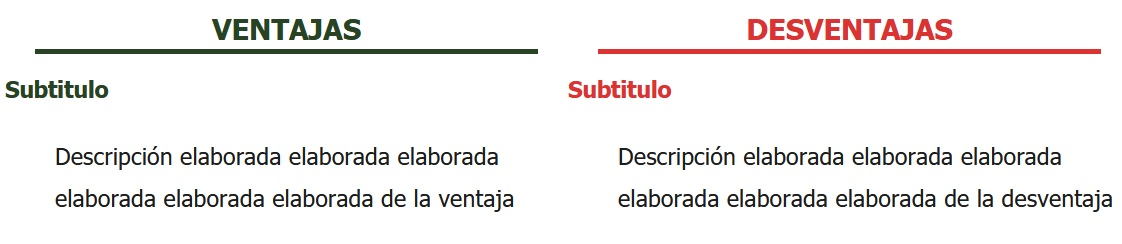
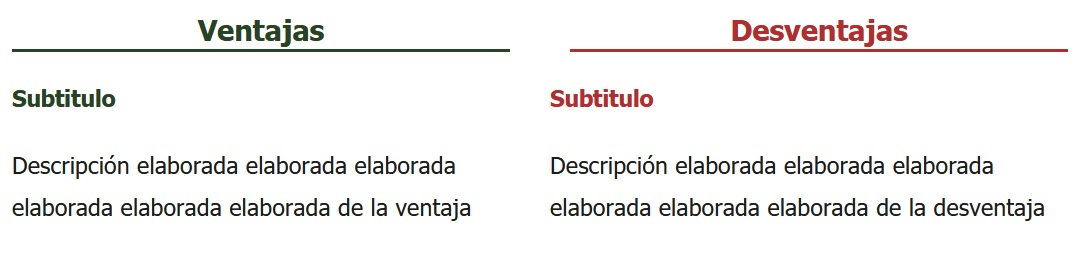
Added button styling option for certain templates

diff --git a/src/components/Palette.js b/src/components/Palette.js
@@ -1,44 +1,7 @@
 import React from "react";
 import styled from "@emotion/styled"
 
-function Palette({ styling, changeStyling }) {
-
-    console.log(styling["letter-spacing"]);
-    function handleBgColor(event) {
-        changeStyling({
-            ...styling,
-            background: event.target.value
-        })
-    }
-
-    function handleColor(event) {
-        changeStyling({
-            ...styling,
-            color: event.target.value
-        })
-    }
-
-    function handleLetterSpacing(event) {
-        changeStyling({
-            ...styling,
-            "letter-spacing": event.target.value + "px"
-        })
-    }
-
-    function handleWordSpacing(event) {
-        changeStyling({
-            ...styling,
-            "word-spacing": event.target.value + "px"
-        })
-    }
-
-    function handleBorderRadius(event) {
-        console.log(event.target.value);
-        changeStyling({
-            ...styling,
-            "border-radius": event.target.value
-        })
-    }
+function Palette({ template, styling, changeStyling, changeButton, stylingButton }) {
 
     return (
         <Form>
@@ -81,10 +44,94 @@ function Palette({ styling, changeStyling }) {
                 </InputSection>
 
             </PaletteSection>
+            {template === 1 && 3 &&
+                <PaletteSection>
+                    <SectionTitle>BOTÓN</SectionTitle>
+
+                    <InputSection>
+                        <label>Color del botón</label>
+                        <InputColor type="color" value={stylingButton.background} onChange={handleBgButtonColor} />
+                    </InputSection>
+
+                    <InputSection>
+                        <label>Color de la letra</label>
+                        <InputColor type="color" value={stylingButton.color} onChange={handleButtonColor} />
+                    </InputSection>
+
+                    <label>Bordes redondeados
+                        <OptionsWrapper>
+                            <label>Si<InputOption type="radio" onChange={handleBorderButton} value="30px" name="border-radius" /></label>
+                            <label>No<InputOption type="radio" onChange={handleBorderButton} value="0px" name="border-radius" /></label>
+                        </OptionsWrapper>
+                    </label>
+
+                </PaletteSection>
+            }
 
         </Form>
     )
+
+    /* TEMPLATE FUNCTIONS */
+    function handleBgColor(event) {
+        changeStyling({
+            ...styling,
+            background: event.target.value
+        })
+    }
+
+    function handleColor(event) {
+        changeStyling({
+            ...styling,
+            color: event.target.value
+        })
+    }
+
+    function handleLetterSpacing(event) {
+        changeStyling({
+            ...styling,
+            "letter-spacing": event.target.value + "px"
+        })
+    }
+
+    function handleWordSpacing(event) {
+        changeStyling({
+            ...styling,
+            "word-spacing": event.target.value + "px"
+        })
+    }
+
+    function handleBorderRadius(event) {
+        changeStyling({
+            ...styling,
+            "border-radius": event.target.value
+        })
+    }
+
+    /* BUTTON FUNCTIONS */
+    function handleBgButtonColor(event) {
+        changeButton({
+            ...stylingButton,
+            background: event.target.value
+        })
+    }
+
+    function handleButtonColor(event) {
+        changeButton({
+            ...stylingButton,
+            color: event.target.value
+        })
+    }
+
+    function handleBorderButton(event) {
+        changeButton({
+            ...stylingButton,
+            "border-radius": event.target.value
+        })
+    }
+
+
 }
+
 
 export default Palette
 

diff --git a/src/resources/BoxTemplates.js b/src/resources/BoxTemplates.js
@@ -62,7 +62,7 @@ const BoxTemplates = [
             TemplateHtml: `<!-- wp:columns {"className":"template4"} -->
             <div class="wp-block-columns template4"><!-- wp:column -->
             <div class="wp-block-column"><!-- wp:heading {"align":"center","level":4} -->
-            <h4 class="has-text-align-center">VENTAJAS</h4>
+            <h4 class="has-text-align-center">Ventajas</h4>
             <!-- /wp:heading -->
             
             <!-- wp:heading {"level":5} -->
@@ -84,7 +84,7 @@ const BoxTemplates = [
             
             <!-- wp:column -->
             <div class="wp-block-column"><!-- wp:heading {"align":"center","level":4} -->
-            <h4 class="has-text-align-center">DESVENTAJAS</h4>
+            <h4 class="has-text-align-center">Desventajas</h4>
             <!-- /wp:heading -->
             
             <!-- wp:heading {"level":5} -->
@@ -105,7 +105,7 @@ const BoxTemplates = [
             <!-- /wp:column --></div>
             <!-- /wp:columns -->
             `,
-            TemplateCss: ".template4{width:100%;display:flex;flex-wrap:nowrap;padding:3px 12px}.template4>div{flex-grow:1;flex-basis:0;word-break:break-word;overflow-wrap:break-word;margin:0 16px}.template4 h4{font-size:23px;text-align:center}.template4>div:first-child h4{color:#274323;border-bottom:4px solid #274323;margin:16px 16px 16px 0}.template4>div:nth-child(2) h4{color:#db3232;border-bottom:4px solid #db3232;margin:16px 0 16px 16px}.template4>div:first-child h5{color:#274323;margin:0}.template4>div:nth-child(2) h5{color:#db3232}.template4 ul li{margin:24px 0}.template4 ul{list-style:none}",
+            TemplateCss: ".template4{width:100%;display:flex;flex-wrap:wrap;padding:3px 12px}.template4>div{flex-grow:1;flex-basis:0;word-break:break-word;overflow-wrap:break-word;margin:0 16px}.template4 h4{font-size:23px;text-align:center}.template4>div:first-child h4{color:#274323;border-bottom:3px solid #274323;border-collapse:separate;border-spacing:50px;margin:16px 16px 24px 0}.template4>div:nth-child(2) h4{color:#b02e2e;border-bottom:3px solid #b02e2e;margin:16px 0 24px 16px}.template4>div:first-child h5{color:#274323;margin:0}.template4>div:nth-child(2) h5{color:#b02e2e}.template4 ul li{margin:24px 0}.template4 ul{list-style:none;padding-left:0}",
             TemplateImg: "../images/box-template4.jpg",
         }
     ]

diff --git a/src/components/PersonalizeTemplate.js b/src/components/PersonalizeTemplate.js
@@ -17,9 +17,22 @@ function PersonalizeTemplate(props) {
         "border-radius": "0px"
     });
 
+    const [stylingButton, changeButton] = useState({
+        background: "#272c30",
+        color: "#ffffff",
+        "border-radius": "0px"
+    })
+
 
     useEffect(() => {
-        document.querySelector(`.template${template.TemplateId}`).setAttribute("style", applyStyles())
+        let btn = document.querySelector(`.template${template.TemplateId} .wp-block-button a`);
+        if(btn!=null) {
+            btn.setAttribute("style", applyStyles(stylingButton))
+        }
+    }, [stylingButton])
+
+    useEffect(() => {
+        document.querySelector(`.template${template.TemplateId}`).setAttribute("style", applyStyles(styling))
     }, [styling])
 
     if (!props.location.optionChosed) {
@@ -35,7 +48,13 @@ function PersonalizeTemplate(props) {
 
                 <Workspace>
                     <div className={template.TemplateId} dangerouslySetInnerHTML={{ __html: template.TemplateHtml }}></div>
-                    <Palette styling={styling} changeStyling={changeStyling}/>
+                    <Palette 
+                        template={template.TemplateId}
+                        styling={styling} 
+                        changeStyling={changeStyling} 
+                        stylingButton={stylingButton}
+                        changeButton={changeButton} 
+                    />
                     <Button>CREAR BLOQUE</Button>
                 </Workspace>
                 <CodeSpace>
@@ -46,10 +65,10 @@ function PersonalizeTemplate(props) {
         )
     }
 
-    function applyStyles() {
+    function applyStyles(style) {
         let concatTxt = "";
-        for(let key in styling) {
-            concatTxt += `${key}:${styling[key]};`
+        for(let key in style) {
+            concatTxt += `${key}:${style[key]};`
         }
         console.log(concatTxt);
         concatOutputCss(concatTxt)

diff --git a/src/resources/TemplatesStyles.css b/src/resources/TemplatesStyles.css
@@ -41,7 +41,6 @@
 .template1 .wp-block-column .wp-block-buttons .wp-block-button a {
 	padding: 10px 20px;
 	border: 2px solid black;
-	background-color: #365E31;
 	color: white;
 	font-size: 20px;
 	transition: 1s;
@@ -49,9 +48,9 @@
 
 .template1 .wp-block-column .wp-block-buttons .wp-block-button a:hover {
 	border: 2px solid black;
-	background-color: #172815 !important;
 	color: white;
 	transform: scale(1.15);
+	cursor: pointer;
 }
 
 .template1 .wp-block-column ul li {
@@ -119,14 +118,13 @@
 
 
 
-
 /* TEMPLATE 4 */
 
 .template4 {
 	width: 100%;
 	display: flex;
-	flex-wrap: nowrap;
-	padding: 3px 12px;
+	flex-wrap: wrap;
+	padding: 3px 12px;	
 	box-shadow: 0px 3px 3px #611905;
 }
 
@@ -141,20 +139,21 @@
 .template4 h4{
 	font-size: 23px;
 	text-align: center;
-	margin-bottom: 25px;
 }
 
 .template4 > div:first-child h4 {
 	color: #274323;
-	border-bottom: 4px solid #274323;
-	margin: 16px 16px 16px 0px;
+	border-bottom: 3px solid #274323;
+	border-collapse: separate;
+	border-spacing: 50px;
+	margin: 16px 16px 24px 0px;
 }
 
 
 .template4 > div:nth-child(2) h4 {
-	color: #db3232;
-	border-bottom: 4px solid #db3232;
-	margin: 16px 0px 16px 16px;
+	color: #b02e2e;
+	border-bottom: 3px solid #b02e2e;
+	margin: 16px 0px 24px 16px;
 }
 
 .template4 > div:first-child h5 {
@@ -163,7 +162,7 @@
 }
 
 .template4 > div:nth-child(2) h5 {
-	color: #db3232;;
+	color: #b02e2e;
 }
 
 .template4 ul li {
@@ -172,6 +171,7 @@
 
 .template4 ul {
 	list-style: none;
+	padding-left: 0px;
 }
 
 /* TEMPLATE 10 */

diff --git a/src/components/TemplateList.js b/src/components/TemplateList.js
@@ -22,7 +22,6 @@ function TemplateList(props) {
                 <TemplateListWrapper type={props.location.optionChosed}>
                     {props.location.optionChosed === "box" ?
                         BoxTemplates.map((el => {
-                            console.log(el.TemplateId);
                             return (
                                 <Link 
                                 key={el.TemplateId} 
